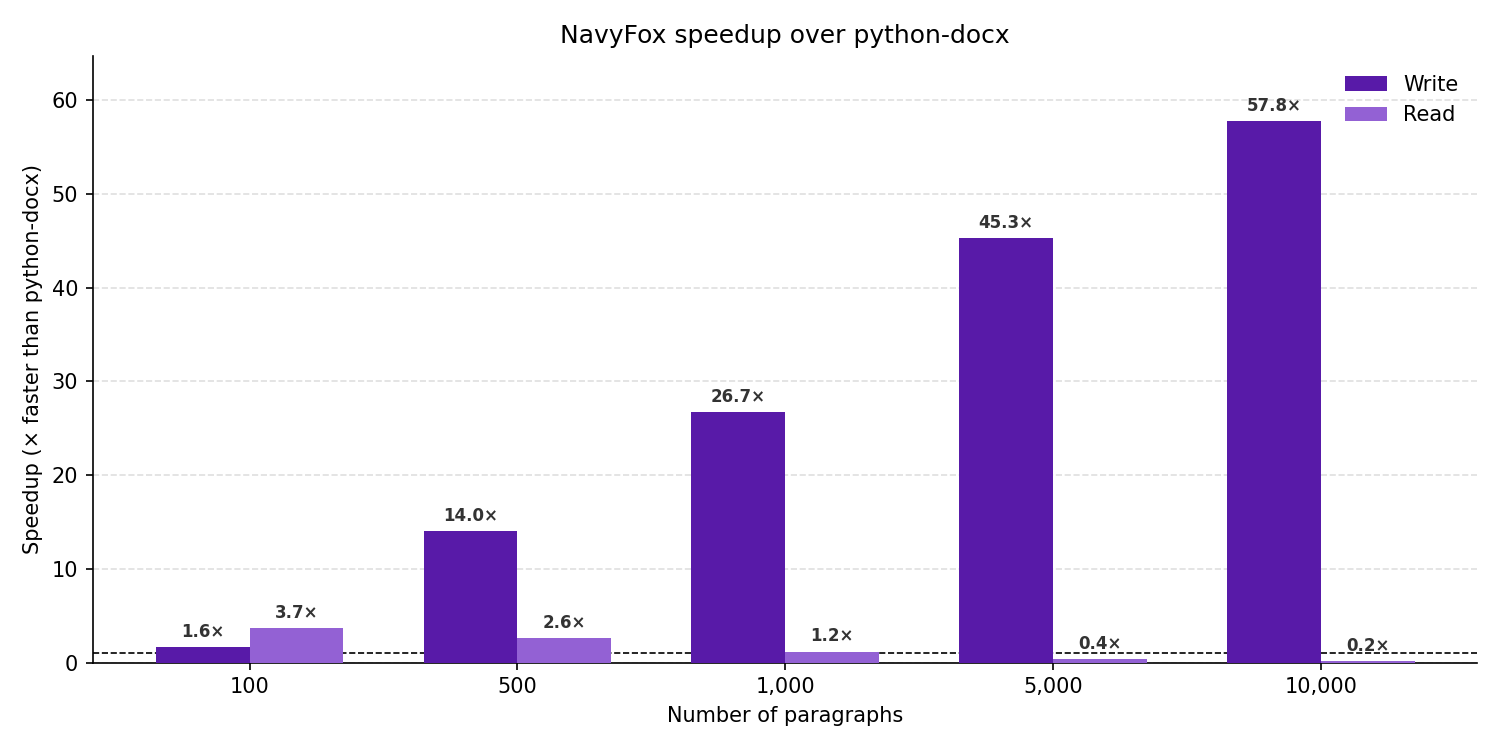
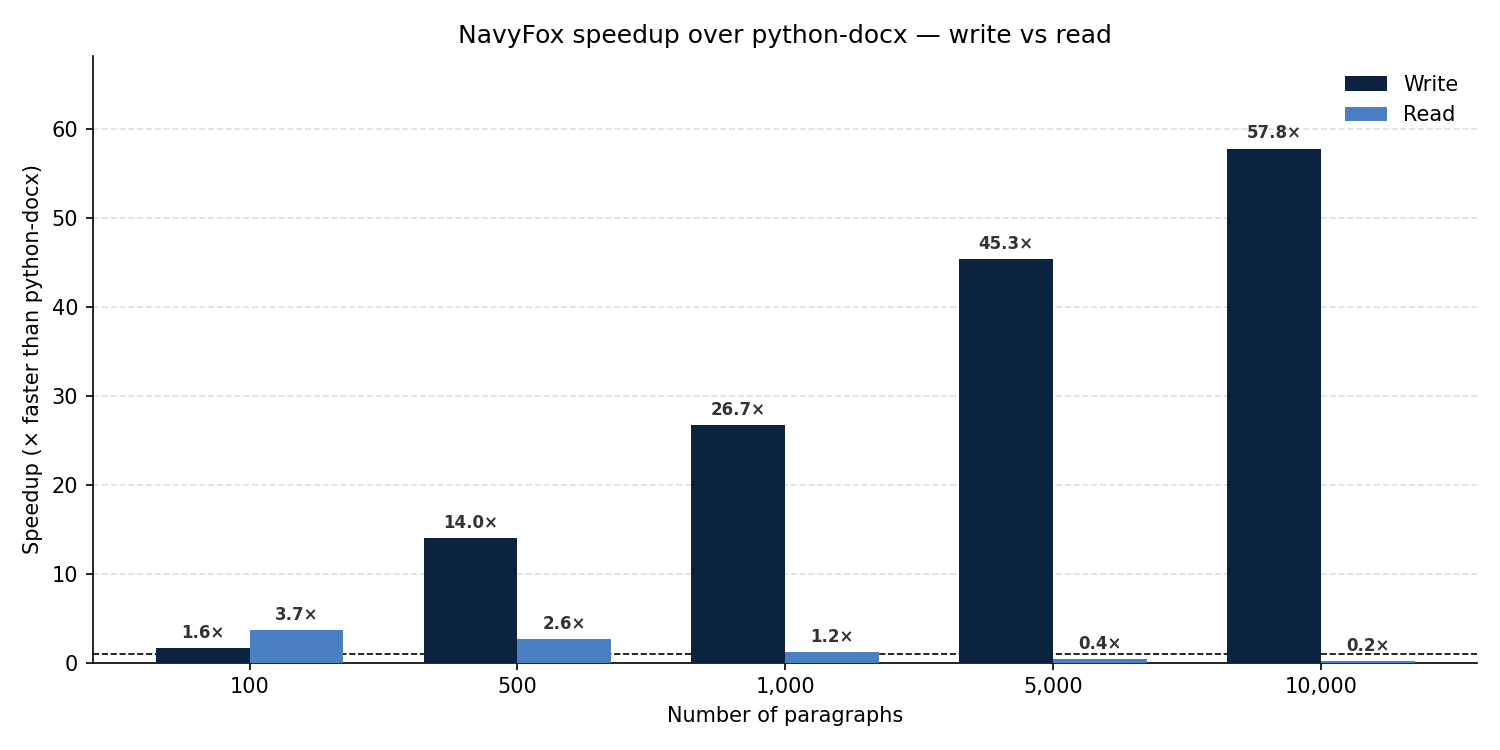
Update benchmark colors and add error bar support
- Colors: NavyFox → navy #0C2340, python-docx → amber #E8952A;
  speedup chart uses navy + slate blue (#4A7FC1) for write/read bars
- benchmark.py: return (mean, stdev) from each bench function, store
  {"mean": ..., "stdev": ...} per entry in the JSON
- generate_charts.py: _extract() handles both old (bare float) and new
  (dict with mean/stdev) JSON formats; error bars rendered when stdev > 0

diff --git a/scripts/generate_charts.py b/scripts/generate_charts.py
@@ -8,6 +8,10 @@ and writes four PNGs to docs/assets/:
   perf_speedup.png     — speedup factor for both operations
   perf_size.png        — installed package size comparison
 
+Error bars are shown when benchmark_results.json contains stdev data
+(produced by the current benchmark.py). Older result files without stdev
+are loaded without error bars.
+
 Usage:
     python scripts/generate_charts.py
 """
@@ -25,31 +29,49 @@ import numpy as np
 RESULTS_PATH = os.path.join(os.path.dirname(__file__), "benchmark_results.json")
 OUT_DIR = os.path.join(os.path.dirname(__file__), "..", "docs", "assets")
 
-NAVY_COLOR   = "#581aa8"
-DOCX_COLOR   = "#1aa897"
-WRITE_COLOR  = "#581aa8"   # NavyFox write
-READ_COLOR   = "#9361d4"   # NavyFox read
+NAVY_COLOR   = "#0C2340"   # NavyFox navy
+DOCX_COLOR   = "#E8952A"   # python-docx amber
+WRITE_COLOR  = "#0C2340"   # speedup chart — write bars
+READ_COLOR   = "#4A7FC1"   # speedup chart — read bars (lighter navy/slate)
 GRID_STYLE   = {"linestyle": "--", "alpha": 0.4}
+ERR_KW       = {"ecolor": "#555555", "capsize": 3, "capthick": 1, "elinewidth": 1}
 
 
-def _load_results() -> tuple[list[int], list[float], list[float], list[float], list[float]]:
+def _extract(entry: dict | float) -> tuple[float, float]:
+    """Return (mean_ms, stdev_ms) from a JSON entry, handling both formats."""
+    if isinstance(entry, dict):
+        return entry["mean"] * 1000, entry.get("stdev", 0.0) * 1000
+    return entry * 1000, 0.0
+
+
+def _load_results() -> tuple[
+    list[int],
+    list[float], list[float], list[float], list[float],
+    list[float], list[float], list[float], list[float],
+]:
     with open(RESULTS_PATH) as f:
         data = json.load(f)
 
     sizes = sorted(int(k) for k in data["write"]["python_docx"])
 
-    write_docx  = [data["write"]["python_docx"][str(s)] * 1000 for s in sizes]
-    write_navy  = [data["write"]["navyfox"][str(s)]      * 1000 for s in sizes]
-    read_docx   = [data["read"]["python_docx"][str(s)]   * 1000 for s in sizes]
-    read_navy   = [data["read"]["navyfox"][str(s)]        * 1000 for s in sizes]
+    write_docx_m, write_docx_e = zip(*[_extract(data["write"]["python_docx"][str(s)]) for s in sizes])
+    write_navy_m, write_navy_e = zip(*[_extract(data["write"]["navyfox"][str(s)])      for s in sizes])
+    read_docx_m,  read_docx_e  = zip(*[_extract(data["read"]["python_docx"][str(s)])   for s in sizes])
+    read_navy_m,  read_navy_e  = zip(*[_extract(data["read"]["navyfox"][str(s)])        for s in sizes])
 
-    return sizes, write_docx, write_navy, read_docx, read_navy
+    return (
+        sizes,
+        list(write_docx_m), list(write_navy_m), list(read_docx_m), list(read_navy_m),
+        list(write_docx_e), list(write_navy_e), list(read_docx_e), list(read_navy_e),
+    )
 
 
 def _time_chart(
     sizes: list[int],
     navy_times: list[float],
     docx_times: list[float],
+    navy_err: list[float],
+    docx_err: list[float],
     title: str,
     out_name: str,
 ) -> None:
@@ -61,8 +83,19 @@ def _time_chart(
     fig.patch.set_facecolor("white")
     ax.set_facecolor("white")
 
-    ax.bar(x - bar_w / 2, navy_times, bar_w, label="NavyFox",     color=NAVY_COLOR, zorder=3)
-    ax.bar(x + bar_w / 2, docx_times, bar_w, label="python-docx", color=DOCX_COLOR, zorder=3)
+    navy_err_plot = navy_err if any(v > 0 for v in navy_err) else None
+    docx_err_plot = docx_err if any(v > 0 for v in docx_err) else None
+
+    ax.bar(
+        x - bar_w / 2, navy_times, bar_w,
+        label="NavyFox", color=NAVY_COLOR, zorder=3,
+        yerr=navy_err_plot, error_kw=ERR_KW,
+    )
+    ax.bar(
+        x + bar_w / 2, docx_times, bar_w,
+        label="python-docx", color=DOCX_COLOR, zorder=3,
+        yerr=docx_err_plot, error_kw=ERR_KW,
+    )
 
     ax.set_yscale("log")
     ax.yaxis.set_major_formatter(ticker.FuncFormatter(lambda v, _: f"{v:.4g} ms"))
@@ -85,10 +118,8 @@ def _time_chart(
 
 def _speedup_chart(
     sizes: list[int],
-    write_docx: list[float],
-    write_navy: list[float],
-    read_docx: list[float],
-    read_navy: list[float],
+    write_docx: list[float], write_navy: list[float],
+    read_docx: list[float],  read_navy: list[float],
 ) -> None:
     write_speedups = [d / n for d, n in zip(write_docx, write_navy)]
     read_speedups  = [d / n for d, n in zip(read_docx,  read_navy)]
@@ -104,13 +135,14 @@ def _speedup_chart(
     bars_r = ax.bar(x + bar_w / 2, read_speedups,  bar_w, label="Read",  color=READ_COLOR,  zorder=3)
 
     all_speedups = write_speedups + read_speedups
-    top = max(all_speedups) * 1.12
+    top = max(abs(s) for s in all_speedups) * 1.18
 
     for bars, speedups in ((bars_w, write_speedups), (bars_r, read_speedups)):
         for bar, s in zip(bars, speedups):
+            label_y = bar.get_height() if s >= 0 else 0
             ax.text(
                 bar.get_x() + bar.get_width() / 2,
-                bar.get_height() + top * 0.01,
+                label_y + top * 0.01,
                 f"{s:.1f}×",
                 ha="center", va="bottom",
                 fontsize=8, fontweight="bold", color="#333333",
@@ -120,9 +152,9 @@ def _speedup_chart(
     ax.set_xticklabels(labels)
     ax.set_xlabel("Number of paragraphs")
     ax.set_ylabel("Speedup (× faster than python-docx)")
-    ax.set_title("NavyFox speedup over python-docx")
+    ax.set_title("NavyFox speedup over python-docx — write vs read")
     ax.axhline(1, color="black", linewidth=0.8, linestyle="--")
-    ax.set_ylim(0, top)
+    ax.set_ylim(bottom=min(0, min(read_speedups) * 1.1), top=top)
     ax.legend(framealpha=0)
     ax.grid(axis="y", **GRID_STYLE)
     ax.spines["top"].set_visible(False)
@@ -196,15 +228,19 @@ def _size_chart() -> None:
 
 def main() -> None:
     os.makedirs(OUT_DIR, exist_ok=True)
-    sizes, write_docx, write_navy, read_docx, read_navy = _load_results()
+    (
+        sizes,
+        write_docx, write_navy, read_docx, read_navy,
+        write_docx_e, write_navy_e, read_docx_e, read_navy_e,
+    ) = _load_results()
 
     _time_chart(
-        sizes, write_navy, write_docx,
+        sizes, write_navy, write_docx, write_navy_e, write_docx_e,
         title="Write benchmark: build + save — NavyFox vs python-docx",
         out_name="perf_write_time.png",
     )
     _time_chart(
-        sizes, read_navy, read_docx,
+        sizes, read_navy, read_docx, read_navy_e, read_docx_e,
         title="Read benchmark: open + iterate — NavyFox vs python-docx",
         out_name="perf_read_time.png",
     )

diff --git a/scripts/benchmark.py b/scripts/benchmark.py
@@ -41,7 +41,7 @@ def _temp_path(suffix: str) -> str:
 # Write benchmarks — build + save
 # ---------------------------------------------------------------------------
 
-def bench_write_python_docx(n: int) -> float:
+def bench_write_python_docx(n: int) -> tuple[float, float]:
     import docx
 
     times = []
@@ -62,10 +62,11 @@ def bench_write_python_docx(n: int) -> float:
             times.append(time.perf_counter() - t0)
         finally:
             os.unlink(path)
-    return statistics.mean(times)
+    stdev = statistics.stdev(times) if len(times) > 1 else 0.0
+    return statistics.mean(times), stdev
 
 
-def bench_write_navyfox(n: int) -> float:
+def bench_write_navyfox(n: int) -> tuple[float, float]:
     from navyfox import Document
 
     times = []
@@ -88,7 +89,8 @@ def bench_write_navyfox(n: int) -> float:
             times.append(time.perf_counter() - t0)
         finally:
             os.unlink(path)
-    return statistics.mean(times)
+    stdev = statistics.stdev(times) if len(times) > 1 else 0.0
+    return statistics.mean(times), stdev
 
 
 # ---------------------------------------------------------------------------
@@ -113,7 +115,7 @@ def _create_reference_file(n: int) -> str:
     return path
 
 
-def bench_read_python_docx(path: str, n: int) -> float:
+def bench_read_python_docx(path: str, n: int) -> tuple[float, float]:
     import docx
 
     times = []
@@ -127,10 +129,11 @@ def bench_read_python_docx(path: str, n: int) -> float:
                 for cell in row.cells:
                     _ = cell.text
         times.append(time.perf_counter() - t0)
-    return statistics.mean(times)
+    stdev = statistics.stdev(times) if len(times) > 1 else 0.0
+    return statistics.mean(times), stdev
 
 
-def bench_read_navyfox(path: str, n: int) -> float:
+def bench_read_navyfox(path: str, n: int) -> tuple[float, float]:
     from navyfox import Document
 
     times = []
@@ -144,7 +147,8 @@ def bench_read_navyfox(path: str, n: int) -> float:
                     for cell in row.cells:
                         _ = cell.text
         times.append(time.perf_counter() - t0)
-    return statistics.mean(times)
+    stdev = statistics.stdev(times) if len(times) > 1 else 0.0
+    return statistics.mean(times), stdev
 
 
 # ---------------------------------------------------------------------------
@@ -152,7 +156,7 @@ def bench_read_navyfox(path: str, n: int) -> float:
 # ---------------------------------------------------------------------------
 
 def main() -> None:
-    results: dict[str, dict[str, dict[str, float]]] = {
+    results: dict[str, dict[str, dict[str, dict[str, float]]]] = {
         "write": {"python_docx": {}, "navyfox": {}},
         "read":  {"python_docx": {}, "navyfox": {}},
     }
@@ -160,14 +164,14 @@ def main() -> None:
     print("=== Write benchmark (build + save) ===")
     for n in DOCUMENT_SIZES:
         print(f"  python-docx  n={n:>6} ...", end=" ", flush=True)
-        t = bench_write_python_docx(n)
-        results["write"]["python_docx"][str(n)] = t
-        print(f"{t * 1000:.1f} ms")
+        mean, stdev = bench_write_python_docx(n)
+        results["write"]["python_docx"][str(n)] = {"mean": mean, "stdev": stdev}
+        print(f"{mean * 1000:.1f} ms  ±{stdev * 1000:.1f}")
 
         print(f"  navyfox      n={n:>6} ...", end=" ", flush=True)
-        t = bench_write_navyfox(n)
-        results["write"]["navyfox"][str(n)] = t
-        print(f"{t * 1000:.1f} ms")
+        mean, stdev = bench_write_navyfox(n)
+        results["write"]["navyfox"][str(n)] = {"mean": mean, "stdev": stdev}
+        print(f"{mean * 1000:.1f} ms  ±{stdev * 1000:.1f}")
 
     print()
     print("=== Read benchmark (open + iterate all content) ===")
@@ -177,14 +181,14 @@ def main() -> None:
         print("done")
 
         print(f"  python-docx  n={n:>6} ...", end=" ", flush=True)
-        t = bench_read_python_docx(ref, n)
-        results["read"]["python_docx"][str(n)] = t
-        print(f"{t * 1000:.1f} ms")
+        mean, stdev = bench_read_python_docx(ref, n)
+        results["read"]["python_docx"][str(n)] = {"mean": mean, "stdev": stdev}
+        print(f"{mean * 1000:.1f} ms  ±{stdev * 1000:.1f}")
 
         print(f"  navyfox      n={n:>6} ...", end=" ", flush=True)
-        t = bench_read_navyfox(ref, n)
-        results["read"]["navyfox"][str(n)] = t
-        print(f"{t * 1000:.1f} ms")
+        mean, stdev = bench_read_navyfox(ref, n)
+        results["read"]["navyfox"][str(n)] = {"mean": mean, "stdev": stdev}
+        print(f"{mean * 1000:.1f} ms  ±{stdev * 1000:.1f}")
 
         os.unlink(ref)
 
